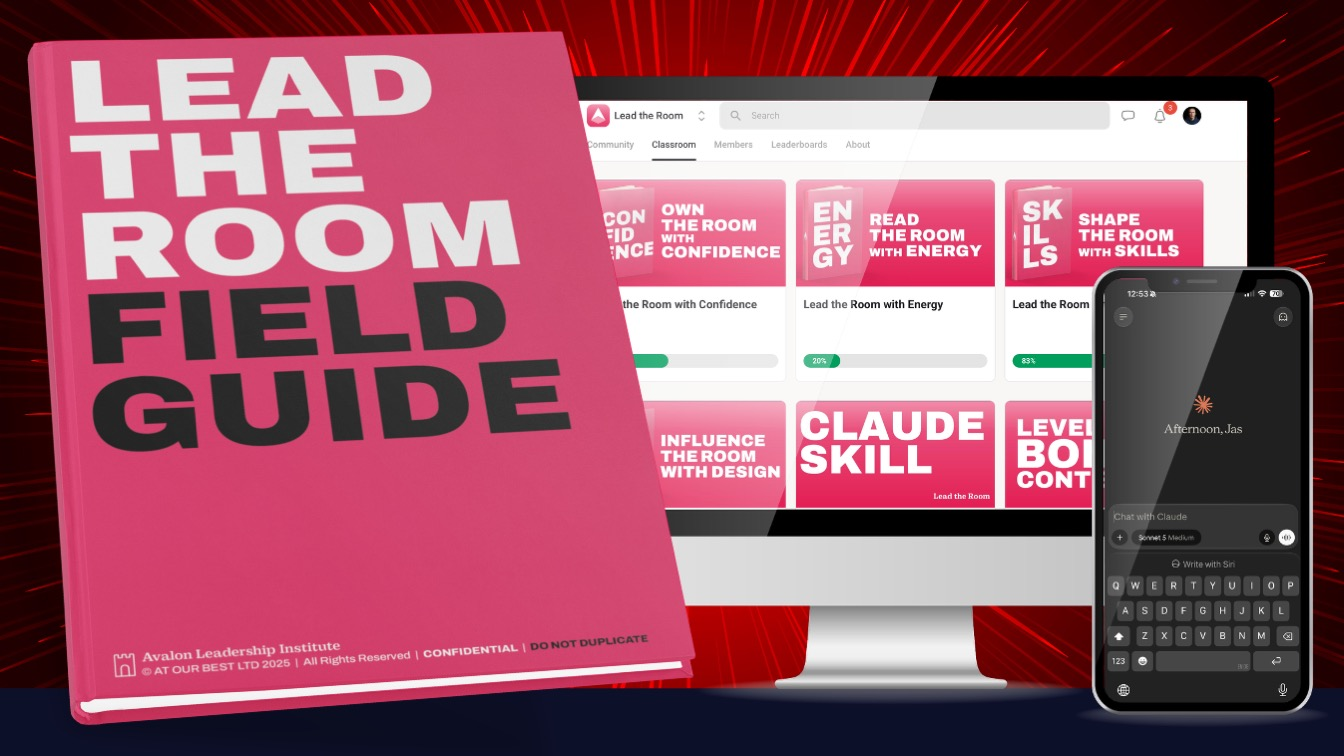
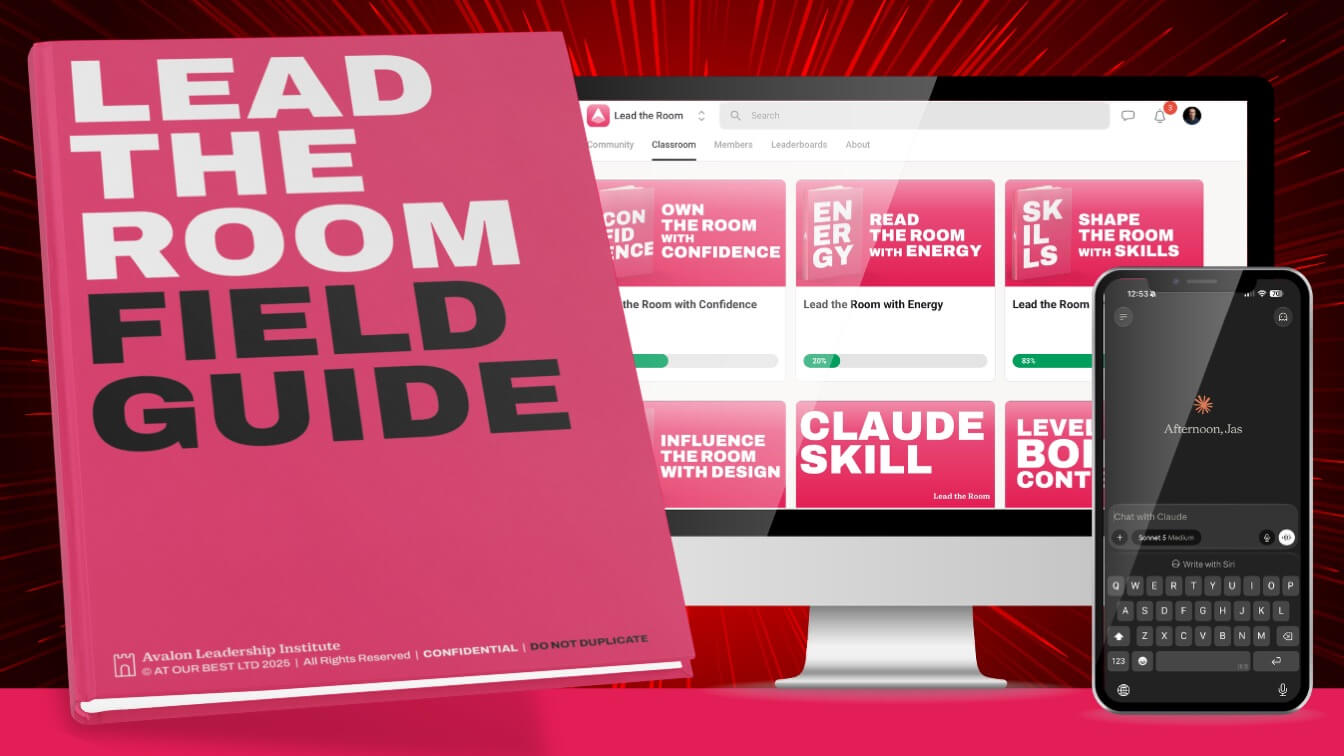
Add files via upload

Changed region(s): [[0.0, 0.8823, 1.0, 1.0]]

diff --git a/index.html b/index.html
@@ -19,6 +19,7 @@
 <link rel="preconnect" href="https://fonts.googleapis.com">
 <link rel="preconnect" href="https://fonts.gstatic.com" crossorigin>
 <link href="https://fonts.googleapis.com/css2?family=Inter:wght@400;500;600;700;800;900&display=swap" rel="stylesheet">
+<link rel="preload" as="image" href="hero_1.jpg">
 <style>
   :root {
     --bg: #0e1029;              /* deep navy page background */
@@ -422,12 +423,16 @@
     position: relative;
     -webkit-mask-image: linear-gradient(90deg, transparent, #000 12%, #000 88%, transparent);
     mask-image: linear-gradient(90deg, transparent, #000 12%, #000 88%, transparent);
+    -webkit-transform: translateZ(0); /* force GPU layer — fixes Safari mask+animation paint bug */
+    transform: translateZ(0);
   }
   .logo-track {
     display: flex;
     gap: 18px;
     width: max-content;
     animation: logo-scroll 30s linear infinite;
+    -webkit-backface-visibility: hidden;
+    backface-visibility: hidden;
   }
   .logo-carousel:hover .logo-track { animation-play-state: paused; }
   .logo-item {
@@ -512,7 +517,7 @@
     <p class="eyebrow">The Program</p>
     <h2>How does Lead the Room work?</h2>
     <p class="lead">Thirty years of leading rooms taught us it comes down to four things. You build CONFIDENCE to own the room, sharpen SKILLS to influence it, master ENERGY to read and move it, and use DESIGN to shape it &mdash; one lab per skill, two weeks, every session practised live.</p>
-    <img src="hero_1.jpg" alt="Lead the Room" style="width:100%; border-radius:20px; margin-top:48px; display:block;">
+    <img src="hero_1.jpg" alt="Lead the Room" width="1344" height="756" decoding="async" style="width:100%; height:auto; border-radius:20px; margin-top:48px; display:block;">
   </div>
 </section>
 
@@ -627,7 +632,7 @@
     <p class="eyebrow">Included With Every Seat</p>
     <h2>Lead the Room Field Guide</h2>
     <p class="lead">A professionally designed workbook shipped to your door &mdash; not a PDF, not a slide deck. Inside: the complete method, every exercise, and session design templates. Use it in the room, return to it between sessions, and keep it working long after the programme ends.</p>
-    <img src="hero_2.jpg" alt="Lead the Room Field Guide and Video Vault" style="width:100%; border-radius:20px; margin-top:48px; display:block;">
+    <img src="hero_2.jpg" alt="Lead the Room Field Guide and Video Vault" width="1344" height="756" loading="lazy" decoding="async" style="width:100%; height:auto; border-radius:20px; margin-top:48px; display:block;">
 
     <h2 style="margin-top:70px;">Lead the Room Video Vault</h2>
     <p class="lead">On-demand video sessions covering confidence patterns, advanced facilitation tactics, the Four Disciplines of a Skilful Facilitator, preparation systems, and using AI as a facilitation partner. Yours to keep and revisit after the programme ends.</p>
@@ -647,11 +652,11 @@
     </div>
     <div class="mentor-grid">
       <div class="mentor-card">
-        <img class="photo" src="micheleskogerboe.jpg" alt="Michele Skogerboe">
+        <img class="photo" src="micheleskogerboe.jpg" alt="Michele Skogerboe" width="1024" height="1024" loading="lazy" decoding="async">
         <h3>Michele Skogerboe</h3>        <p>Michele designs and delivers experiences that challenge how leaders think, behave, and show up. She doesn't lecture from the front of the room &mdash; she creates immersive programmes that surface hard truths and help leaders practise courage, curiosity, and care. Her work draws from psychology, systems thinking, and human-centred design, always grounded in evidence and translated for real rooms.</p>
       </div>
       <div class="mentor-card">
-        <img class="photo" src="jason-moore.jpg" alt="Jason Moore">
+        <img class="photo" src="jason-moore.jpg" alt="Jason Moore" width="1664" height="1664" loading="lazy" decoding="async">
         <h3>Jason Moore</h3>        <p>Jason has spent more than two decades facilitating leadership experiences for organisations including Microsoft, HSBC, Netflix, Equinix, and Goldman Sachs &mdash; reaching more than 500,000 people across 50+ countries. His style is energising, rigorous, and deeply human. He brings as much care to what shifts in people as to what gets decided.</p>
       </div>
     </div>
@@ -664,26 +669,26 @@
     <p style="text-align:center; color:var(--muted); font-size:13px; font-weight:700; letter-spacing:.2em; text-transform:uppercase; margin-top:44px;">Trusted by leaders at:</p>
     <div class="logo-carousel">
       <div class="logo-track">
-        <div class="logo-item"><img src="microsoft.png" alt="Microsoft"></div>
-        <div class="logo-item"><img src="intuit.png" alt="Intuit"></div>
-        <div class="logo-item"><img src="hsbc.png" alt="HSBC"></div>
-        <div class="logo-item"><img src="equinix.png" alt="Equinix"></div>
-        <div class="logo-item"><img src="netflix.png" alt="Netflix"></div>
-        <div class="logo-item"><img src="goldman.png" alt="Goldman Sachs"></div>
-        <div class="logo-item"><img src="nordea.png" alt="Nordea"></div>
-        <div class="logo-item"><img src="bupa.png" alt="Bupa"></div>
-        <div class="logo-item"><img src="oq.png" alt="OQ"></div>
-        <div class="logo-item"><img src="wells.png" alt="Wells Fargo"></div>
-        <div class="logo-item"><img src="microsoft.png" alt="Microsoft"></div>
-        <div class="logo-item"><img src="intuit.png" alt="Intuit"></div>
-        <div class="logo-item"><img src="hsbc.png" alt="HSBC"></div>
-        <div class="logo-item"><img src="equinix.png" alt="Equinix"></div>
-        <div class="logo-item"><img src="netflix.png" alt="Netflix"></div>
-        <div class="logo-item"><img src="goldman.png" alt="Goldman Sachs"></div>
-        <div class="logo-item"><img src="nordea.png" alt="Nordea"></div>
-        <div class="logo-item"><img src="bupa.png" alt="Bupa"></div>
-        <div class="logo-item"><img src="oq.png" alt="OQ"></div>
-        <div class="logo-item"><img src="wells.png" alt="Wells Fargo"></div>
+        <div class="logo-item"><img src="microsoft.png" alt="Microsoft" decoding="async"></div>
+        <div class="logo-item"><img src="intuit.png" alt="Intuit" decoding="async"></div>
+        <div class="logo-item"><img src="hsbc.png" alt="HSBC" decoding="async"></div>
+        <div class="logo-item"><img src="equinix.png" alt="Equinix" decoding="async"></div>
+        <div class="logo-item"><img src="netflix.png" alt="Netflix" decoding="async"></div>
+        <div class="logo-item"><img src="goldman.png" alt="Goldman Sachs" decoding="async"></div>
+        <div class="logo-item"><img src="nordea.png" alt="Nordea" decoding="async"></div>
+        <div class="logo-item"><img src="bupa.png" alt="Bupa" decoding="async"></div>
+        <div class="logo-item"><img src="oq.png" alt="OQ" decoding="async"></div>
+        <div class="logo-item"><img src="wells.png" alt="Wells Fargo" decoding="async"></div>
+        <div class="logo-item"><img src="microsoft.png" alt="Microsoft" decoding="async"></div>
+        <div class="logo-item"><img src="intuit.png" alt="Intuit" decoding="async"></div>
+        <div class="logo-item"><img src="hsbc.png" alt="HSBC" decoding="async"></div>
+        <div class="logo-item"><img src="equinix.png" alt="Equinix" decoding="async"></div>
+        <div class="logo-item"><img src="netflix.png" alt="Netflix" decoding="async"></div>
+        <div class="logo-item"><img src="goldman.png" alt="Goldman Sachs" decoding="async"></div>
+        <div class="logo-item"><img src="nordea.png" alt="Nordea" decoding="async"></div>
+        <div class="logo-item"><img src="bupa.png" alt="Bupa" decoding="async"></div>
+        <div class="logo-item"><img src="oq.png" alt="OQ" decoding="async"></div>
+        <div class="logo-item"><img src="wells.png" alt="Wells Fargo" decoding="async"></div>
       </div>
     </div>
   </div>